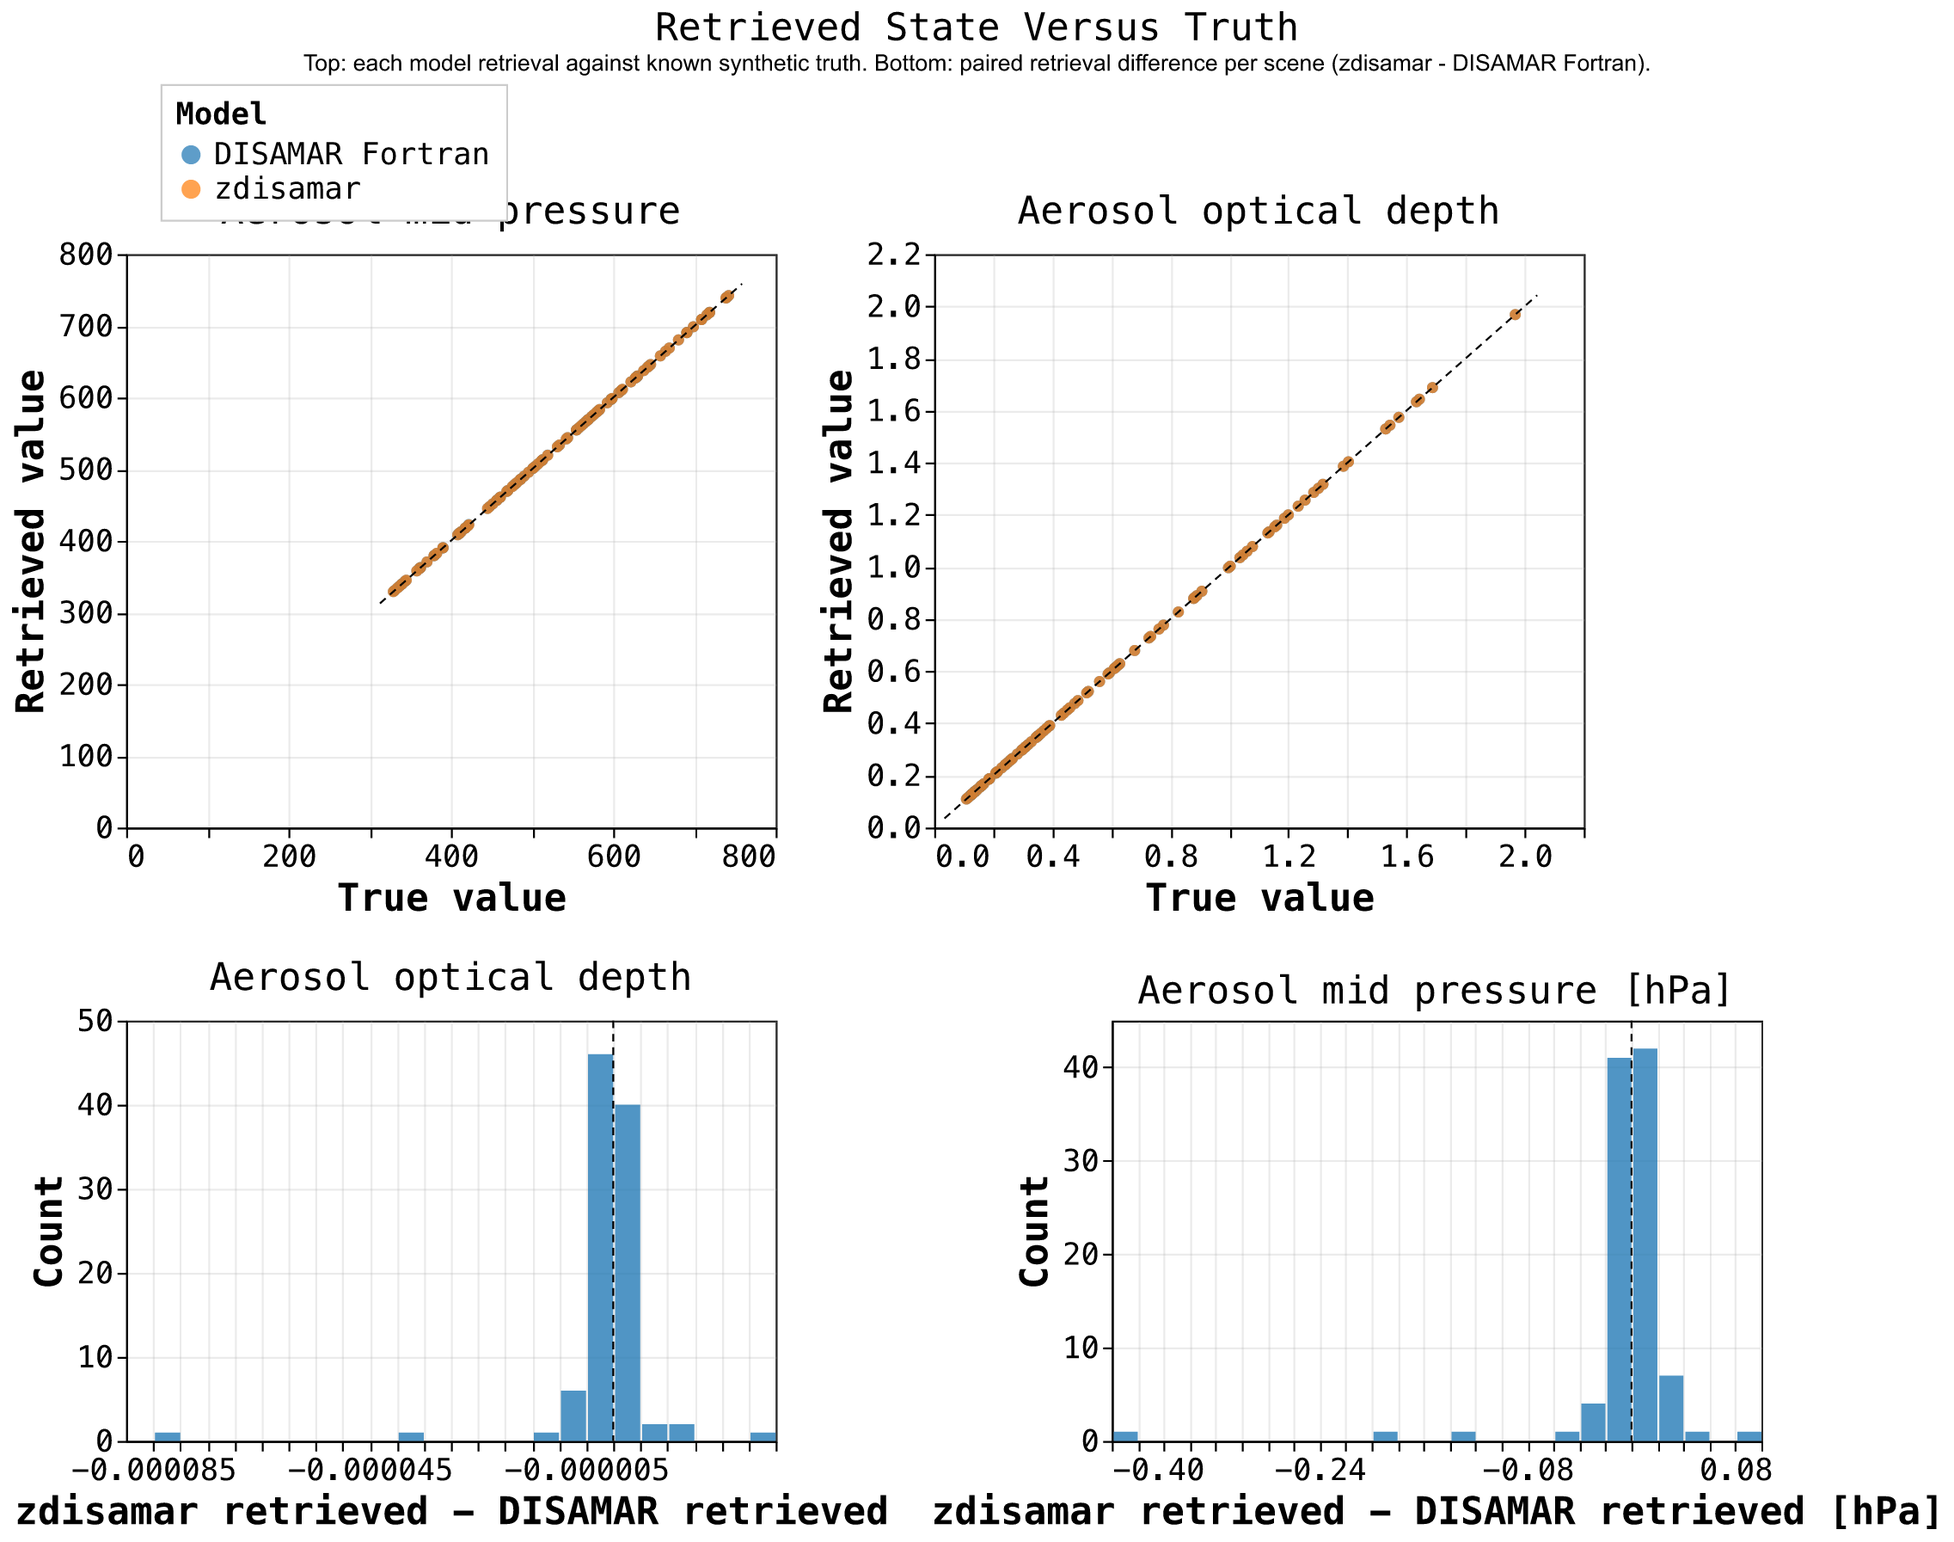
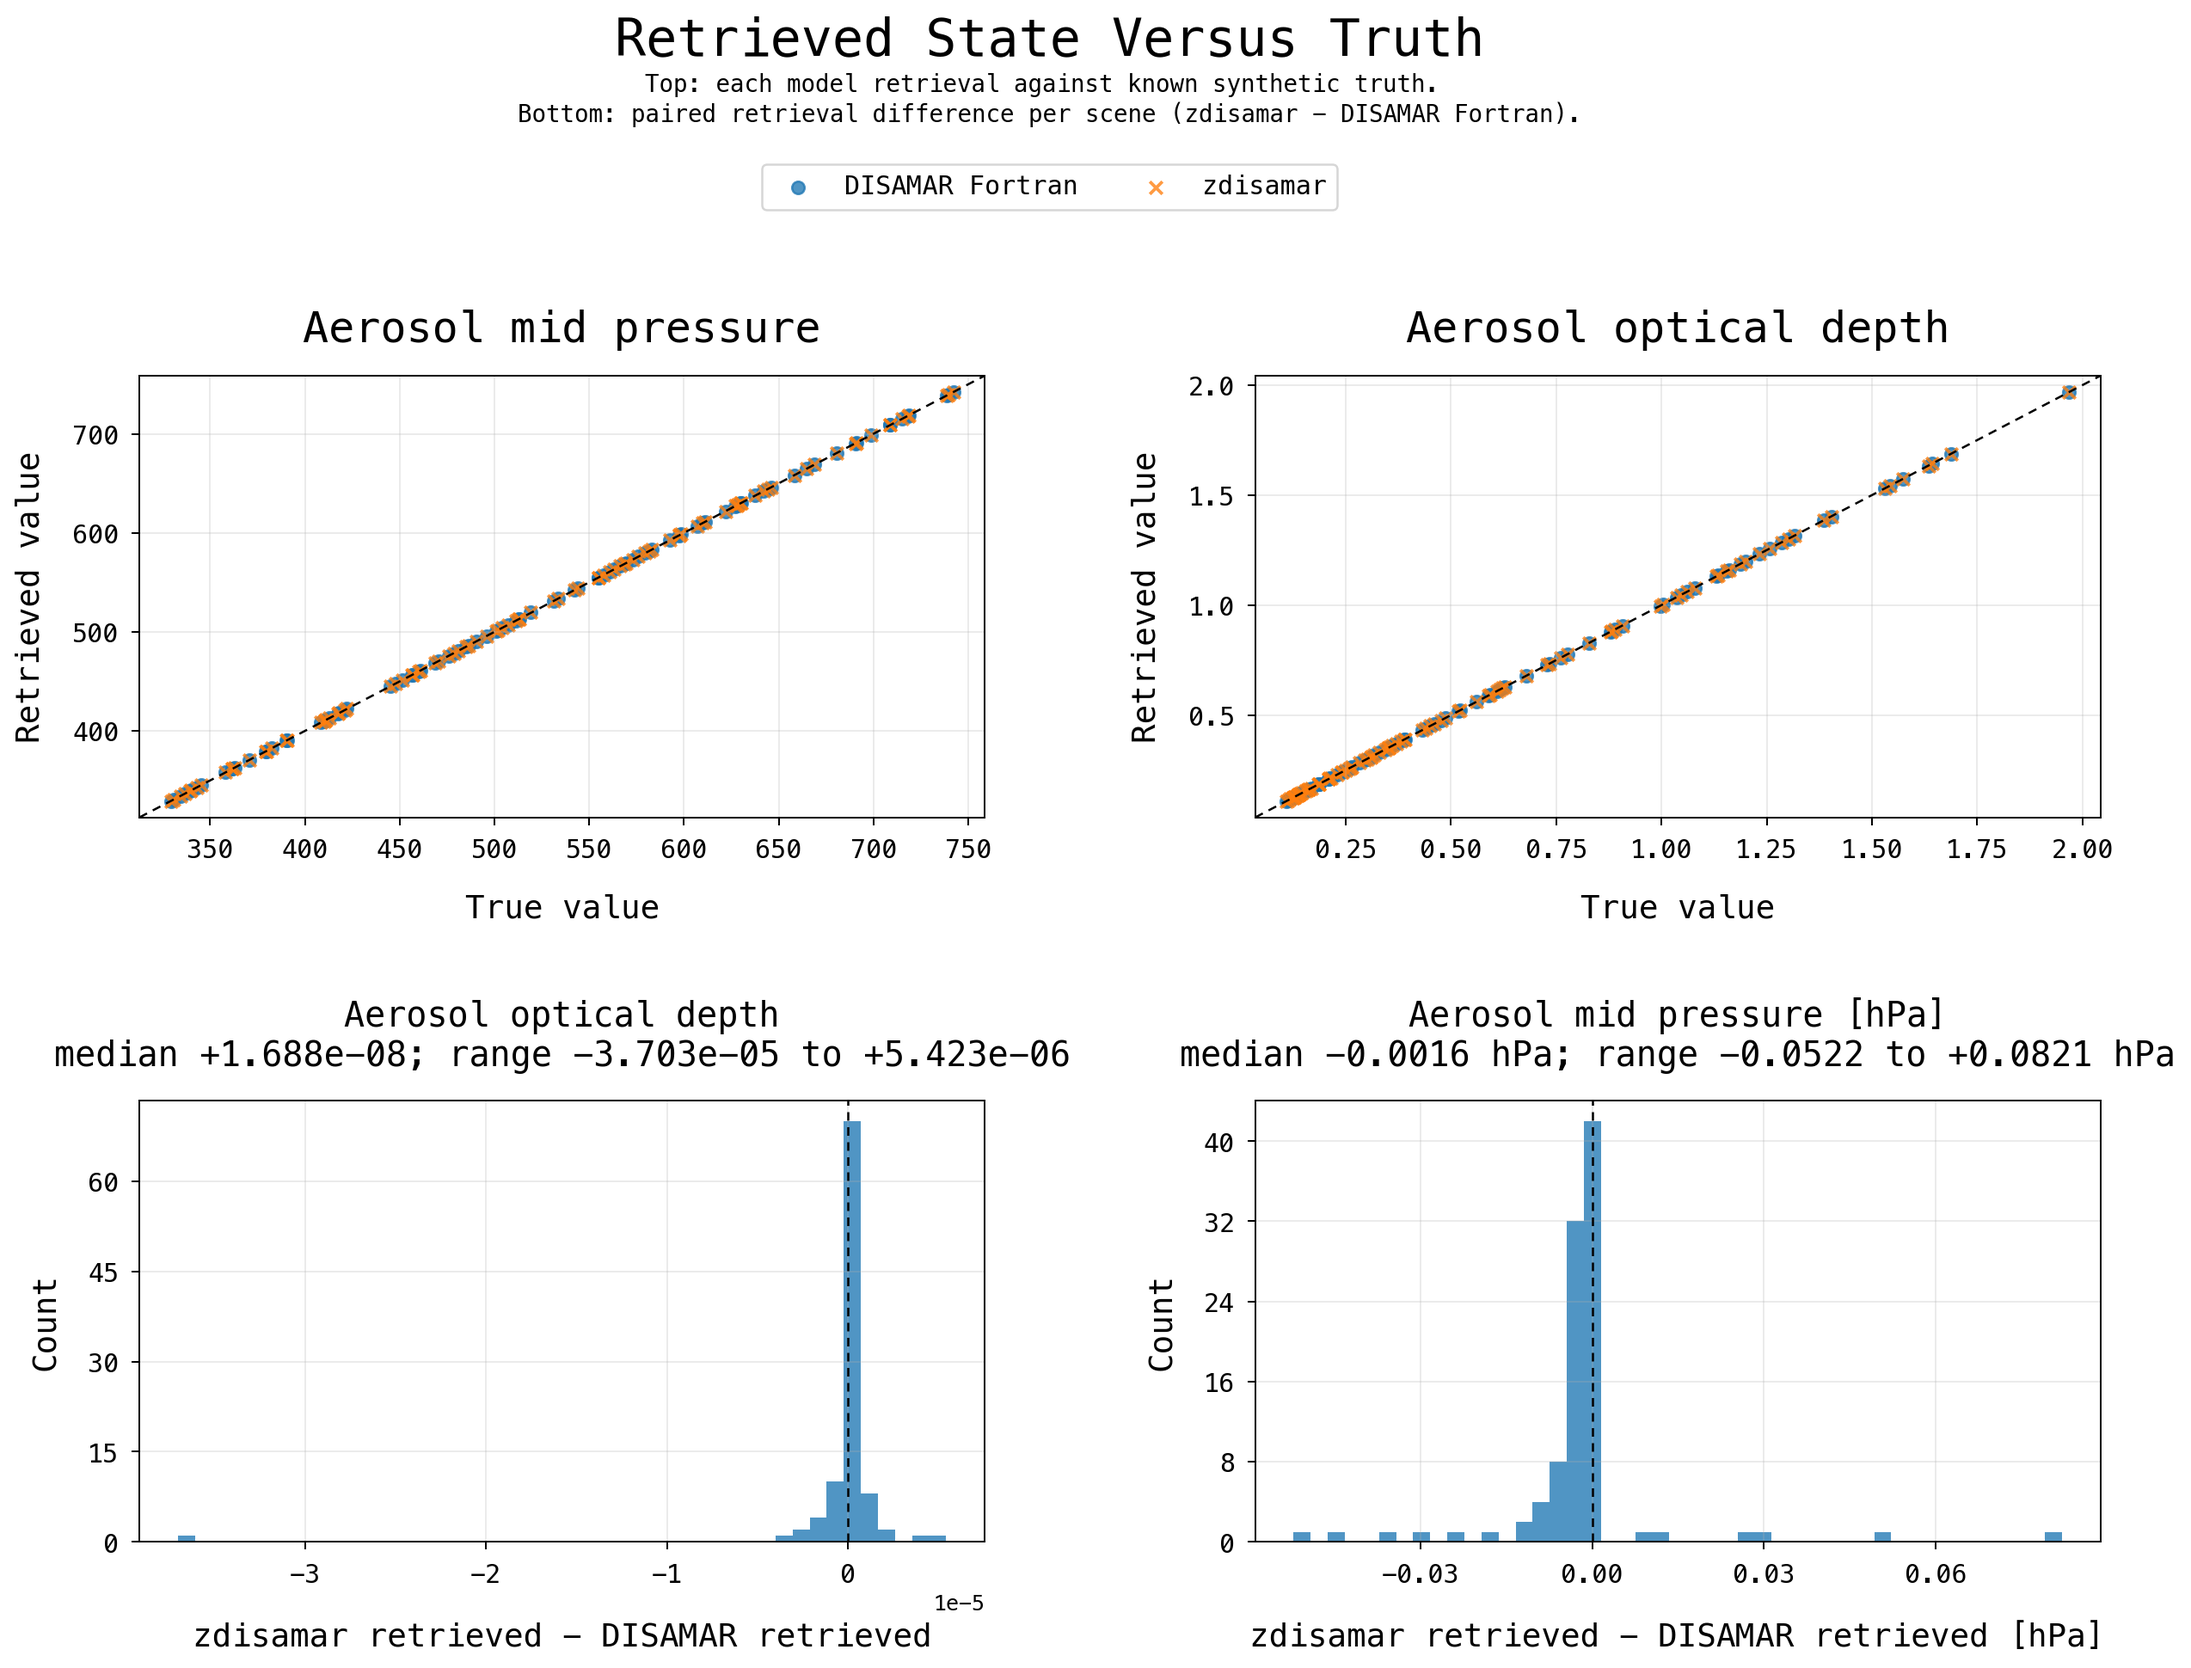
Refresh paired OE retrieval plot

diff --git a/validation/optimal_estimation/plot_paired_disamar_zdisamar.py b/validation/optimal_estimation/plot_paired_disamar_zdisamar.py
@@ -3,6 +3,7 @@
 # requires-python = ">=3.14"
 # dependencies = [
 #   "altair>=5.5",
+#   "matplotlib>=3.10",
 #   "polars>=1.35",
 #   "vl-convert-python>=1.7",
 # ]
@@ -14,7 +15,9 @@ from pathlib import Path
 from typing import Any, cast
 
 import altair as alt
+import matplotlib.pyplot as plt
 import polars as pl
+from matplotlib.ticker import MaxNLocator
 
 REPO_ROOT = Path(__file__).resolve().parents[2]
 PYTHON_ROOT = REPO_ROOT / "python"
@@ -46,6 +49,11 @@ MODEL_LABELS = {
     "zdisamar": "zdisamar",
 }
 MODEL_COLORS = [PLOT.colors["blue"], PLOT.colors["orange"]]
+MODEL_MARKERS = {
+    "DISAMAR Fortran": "o",
+    "zdisamar": "x",
+}
+MONOSPACE_FONT = "Menlo"
 
 
 def require_data() -> pl.DataFrame:
@@ -139,106 +147,209 @@ def paired_difference_rows(frame: pl.DataFrame) -> pl.DataFrame:
     return pl.concat([aod, pressure])
 
 
-def retrieved_scatter_row(frame: pl.DataFrame) -> alt.HConcatChart:
-    data = retrieved_rows(frame)
-    charts = []
-    for parameter in data["parameter"].unique().to_list():
-        subset = data.filter(pl.col("parameter") == parameter)
-        truth_min = float(cast(float, subset["truth"].min()))
-        retrieved_min = float(cast(float, subset["retrieved"].min()))
-        truth_max = float(cast(float, subset["truth"].max()))
-        retrieved_max = float(cast(float, subset["retrieved"].max()))
-        min_value = min(truth_min, retrieved_min)
-        max_value = max(truth_max, retrieved_max)
-        pad = (max_value - min_value) * 0.04
-        line_rows = pl.DataFrame([{"line_min": min_value - pad, "line_max": max_value + pad}])
-        line = (
-            alt.Chart(line_rows)
-            .mark_line(color="black", strokeDash=[4, 3], strokeWidth=1)
-            .encode(
-                x="line_min:Q",
-                x2="line_max:Q",
-                y="line_min:Q",
-                y2="line_max:Q",
-            )
-        )
-        points = (
-            alt.Chart(subset)
-            .mark_circle(size=34, opacity=0.72)
-            .encode(
-                x=alt.X("truth:Q", title="True value"),
-                y=alt.Y("retrieved:Q", title="Retrieved value"),
-                color=alt.Color(
-                    "model_label:N",
-                    title="Model",
-                    scale=alt.Scale(range=MODEL_COLORS),
-                ),
-                tooltip=[
-                    "case:Q",
-                    "model_label:N",
-                    "parameter:N",
-                    alt.Tooltip("truth:Q", format=".6g"),
-                    alt.Tooltip("retrieved:Q", format=".6g"),
-                ],
-            )
-            .properties(title=str(parameter), width=340, height=300)
-        )
-        charts.append(points + line)
-    return alt.hconcat(*charts)
+def series_stats(series: pl.Series) -> dict[str, float]:
+    if series.is_empty():
+        return {"min": math.nan, "median": math.nan, "mean": math.nan, "max": math.nan}
+    return {
+        "min": float(cast(float, series.min())),
+        "median": float(cast(float, series.median())),
+        "mean": float(cast(float, series.mean())),
+        "max": float(cast(float, series.max())),
+    }
 
 
-def paired_difference_histogram_row(frame: pl.DataFrame) -> alt.HConcatChart:
+def paired_difference_stats(frame: pl.DataFrame) -> dict[str, dict[str, float]]:
     data = paired_difference_rows(frame)
-    charts = []
-    for parameter, x_title in (
-        ("Aerosol optical depth", "zdisamar retrieved - DISAMAR retrieved"),
-        (
-            "Aerosol mid pressure [hPa]",
-            "zdisamar retrieved - DISAMAR retrieved [hPa]",
+    return {
+        "aerosol_optical_depth": series_stats(
+            data.filter(pl.col("parameter") == "Aerosol optical depth")["difference"]
         ),
-    ):
-        subset = data.filter(pl.col("parameter") == parameter)
-        zero_line = (
-            alt.Chart(pl.DataFrame([{"zero": 0.0}]))
-            .mark_rule(color="black", strokeDash=[4, 3], strokeWidth=1)
-            .encode(x="zero:Q")
+        "aerosol_mid_pressure_hpa": series_stats(
+            data.filter(pl.col("parameter") == "Aerosol mid pressure [hPa]")["difference"]
+        ),
+    }
+
+
+def signed(value: float, precision: str) -> str:
+    if math.isnan(value):
+        return "nan"
+    return f"{value:+{precision}}"
+
+
+def difference_subtitle(stats: dict[str, float], precision: str, unit: str = "") -> str:
+    suffix = f" {unit}" if unit else ""
+    return (
+        f"median {signed(stats['median'], precision)}{suffix}; "
+        f"range {signed(stats['min'], precision)} to {signed(stats['max'], precision)}{suffix}"
+    )
+
+
+def set_matplotlib_style() -> None:
+    plt.rcParams.update(
+        {
+            "font.family": "monospace",
+            "font.monospace": [
+                MONOSPACE_FONT,
+                "Monaco",
+                "Consolas",
+                "Liberation Mono",
+                "DejaVu Sans Mono",
+                "monospace",
+            ],
+            "axes.grid": True,
+            "grid.color": PLOT.colors["grid"],
+            "grid.alpha": 0.25,
+        }
+    )
+
+
+def scatter_panel(
+    ax,
+    data: pl.DataFrame,
+    *,
+    parameter: str,
+    truth_field: str,
+    retrieved_field: str,
+    title: str,
+) -> None:
+    subset = data.filter(pl.col("parameter") == parameter)
+    for model_label, color in zip(MODEL_LABELS.values(), MODEL_COLORS, strict=True):
+        model_subset = subset.filter(pl.col("model_label") == model_label)
+        ax.scatter(
+            model_subset[truth_field].to_list(),
+            model_subset[retrieved_field].to_list(),
+            s=34,
+            alpha=0.78,
+            label=model_label,
+            color=color,
+            marker=MODEL_MARKERS[model_label],
         )
-        histogram = (
-            alt.Chart(subset)
-            .mark_bar(color=PLOT.colors["blue"], opacity=0.78)
-            .encode(
-                x=alt.X("difference:Q", bin=alt.Bin(maxbins=45), title=x_title),
-                y=alt.Y("count():Q", title="Count"),
-                tooltip=[
-                    "parameter:N",
-                    alt.Tooltip("count():Q", title="count"),
-                ],
-            )
-            .properties(title=parameter, width=340, height=220)
-        )
-        charts.append(histogram + zero_line)
-    return alt.hconcat(*charts)
+    truth_min = float(cast(float, subset[truth_field].min()))
+    retrieved_min = float(cast(float, subset[retrieved_field].min()))
+    truth_max = float(cast(float, subset[truth_field].max()))
+    retrieved_max = float(cast(float, subset[retrieved_field].max()))
+    min_value = min(truth_min, retrieved_min)
+    max_value = max(truth_max, retrieved_max)
+    pad = (max_value - min_value) * 0.04
+    lower = min_value - pad
+    upper = max_value + pad
+    ax.plot(
+        [lower, upper],
+        [lower, upper],
+        color="black",
+        linestyle=(0, (4, 3)),
+        linewidth=1,
+    )
+    ax.set_xlim(lower, upper)
+    ax.set_ylim(lower, upper)
+    ax.set_title(title, fontsize=20, pad=16)
+    ax.set_xlabel("True value", fontsize=15, labelpad=14)
+    ax.set_ylabel("Retrieved value", fontsize=15, labelpad=12, fontweight="bold")
+    ax.tick_params(labelsize=12, pad=6)
+
+
+def histogram_panel(
+    ax,
+    data: pl.DataFrame,
+    *,
+    parameter: str,
+    title: str,
+    subtitle: str,
+    xlabel: str,
+    bins: int = 45,
+) -> None:
+    subset = data.filter(pl.col("parameter") == parameter)
+    ax.hist(subset["difference"].to_list(), bins=bins, color=PLOT.colors["blue"], alpha=0.78)
+    ax.axvline(0.0, color="black", linestyle=(0, (4, 3)), linewidth=1)
+    ax.set_title(f"{title}\n{subtitle}", fontsize=16, pad=16)
+    ax.set_xlabel(xlabel, fontsize=15, labelpad=16, fontweight="bold")
+    ax.set_ylabel("Count", fontsize=15, labelpad=12, fontweight="bold")
+    ax.tick_params(labelsize=12, pad=6)
+    ax.xaxis.set_major_locator(MaxNLocator(nbins=5))
+    ax.yaxis.set_major_locator(MaxNLocator(nbins=6, integer=True))
+    ax.minorticks_off()
+    ax.grid(True, which="major", axis="both", alpha=0.25)
 
 
 def save_retrieved_plot(frame: pl.DataFrame) -> None:
-    chart = (
-        alt.vconcat(
-            retrieved_scatter_row(frame),
-            paired_difference_histogram_row(frame),
-        )
-        .resolve_scale(x="independent", y="independent")
-        .properties(
-            title=alt.TitleParams(
-                text="Retrieved State Versus Truth",
-                subtitle=(
-                    "Top: each model retrieval against known synthetic truth. "
-                    "Bottom: paired retrieval difference per scene "
-                    "(zdisamar - DISAMAR Fortran)."
-                ),
-            )
-        )
+    set_matplotlib_style()
+    retrieved = retrieved_rows(frame)
+    scatter_data = retrieved.rename({"truth": "truth_value", "retrieved": "retrieved_value"})
+    differences = paired_difference_rows(frame)
+    difference_stats = paired_difference_stats(frame)
+    fig, axes = plt.subplots(2, 2, figsize=(14, 11), dpi=180)
+    fig.suptitle("Retrieved State Versus Truth", fontsize=24, y=0.982)
+    fig.text(
+        0.5,
+        0.948,
+        (
+            "Top: each model retrieval against known synthetic truth. "
+            "\nBottom: paired retrieval difference per scene "
+            "(zdisamar - DISAMAR Fortran)."
+        ),
+        ha="center",
+        va="top",
+        fontsize=11,
+        family="monospace",
     )
-    chart.save(RETRIEVED_PLOT_PATH, ppi=160)
+    scatter_panel(
+        axes[0, 0],
+        scatter_data,
+        parameter="Aerosol mid pressure",
+        truth_field="truth_value",
+        retrieved_field="retrieved_value",
+        title="Aerosol mid pressure",
+    )
+    scatter_panel(
+        axes[0, 1],
+        scatter_data,
+        parameter="Aerosol optical depth",
+        truth_field="truth_value",
+        retrieved_field="retrieved_value",
+        title="Aerosol optical depth",
+    )
+    histogram_panel(
+        axes[1, 0],
+        differences,
+        parameter="Aerosol optical depth",
+        title="Aerosol optical depth",
+        subtitle=difference_subtitle(difference_stats["aerosol_optical_depth"], ".3e"),
+        xlabel="zdisamar retrieved - DISAMAR retrieved",
+    )
+    histogram_panel(
+        axes[1, 1],
+        differences,
+        parameter="Aerosol mid pressure [hPa]",
+        title="Aerosol mid pressure [hPa]",
+        subtitle=difference_subtitle(
+            difference_stats["aerosol_mid_pressure_hpa"],
+            ".4f",
+            "hPa",
+        ),
+        xlabel="zdisamar retrieved - DISAMAR retrieved [hPa]",
+    )
+    handles, labels = axes[0, 0].get_legend_handles_labels()
+    legend = fig.legend(
+        handles,
+        labels,
+        loc="upper center",
+        bbox_to_anchor=(0.5, 0.902),
+        ncols=2,
+        frameon=True,
+        fontsize=12,
+    )
+    legend.get_frame().set_edgecolor("#cccccc")
+    legend.get_frame().set_facecolor("white")
+    fig.subplots_adjust(
+        left=0.08,
+        right=0.985,
+        top=0.77,
+        bottom=0.085,
+        hspace=0.64,
+        wspace=0.32,
+    )
+    fig.savefig(RETRIEVED_PLOT_PATH, bbox_inches="tight")
+    plt.close(fig)
 
 
 def save_error_histograms(frame: pl.DataFrame) -> None:
@@ -338,8 +449,9 @@ def manifest(frame: pl.DataFrame) -> dict[str, Any]:
                 ok_subset["aerosol_mid_pressure_abs_error_hpa"].to_list()
             ),
         }
+    differences = paired_difference_stats(frame)
     return {
-        "source_data": stable_repo_path(DATA_PATH),
+        "source_data": DATA_PATH.relative_to(REPO_ROOT).as_posix(),
         "source_rows": frame.height,
         "source_ok_rows": ok.height,
         "plots": {
@@ -347,6 +459,7 @@ def manifest(frame: pl.DataFrame) -> dict[str, Any]:
             "error_histograms": stable_repo_path(ERROR_HISTOGRAM_PATH),
             "latency": stable_repo_path(LATENCY_PLOT_PATH),
         },
+        "paired_difference": differences,
         "by_model": by_model,
     }
 

diff --git a/README.md b/README.md
@@ -95,11 +95,18 @@ come from reducing repeated setup around that calculation:
 - validation and benchmark evidence is stored under
   [`validation/outputs/`](./validation/outputs/).
 
-The benchmark cases use `nstreamsSim = 20` and `nstreamsRetr = 20`. The DISAMAR
-baseline configuration also uses `aerosolLayerHeight = 0`.
-The Fortran `aerosolLayerHeight = 1` setting activates an older shortcut option;
-the benchmark references use the normal physical inverse problem with
-`aerosolLayerHeight = 0`.
+The benchmark cases use `nstreamsSim = 20` and `nstreamsRetr = 20`. Streams are
+the angular quadrature directions used by the multiple-scattering
+radiative-transfer solver; more streams resolve the angular radiation field more
+finely, but each forward-model call costs more. The production DISAMAR O2 A
+setup usually uses 16 streams, so these retained 20-stream timings are
+deliberately slower than a production-tuned Fortran run.
+
+The DISAMAR baseline configuration also keeps `aerosolLayerHeight = 0`. We do
+not use the Fortran `aerosolLayerHeight = 1` flag to speed the comparison up,
+because that flag activates an older shortcut path. The timings below therefore
+compare `zdisamar` against the normal physical inverse problem, not against a
+shortcut-accelerated DISAMAR run.
 
 ## Benchmarks
 
@@ -139,8 +146,18 @@ synthetic spectrum, which keeps the retrieval problem aligned while measuring
 the two systems separately.
 
 ```text
-DISAMAR Fortran: 100/100 converged, median 1227.947 s, mean 1197.811 s
-zdisamar:        100/100 converged, median    3.327 s, mean    3.235 s
+DISAMAR Fortran: 100/100 converged, median 1228.826 s, mean 1189.862 s
+zdisamar:        100/100 converged, median    3.624 s, mean    3.667 s
+```
+
+![Paired optimal-estimation retrieval comparison](./validation/outputs/optimal_estimation/paired_oe_retrieved_scatter.png)
+
+The lower row shows the paired retrieved-state difference for each scene,
+computed as `zdisamar` retrieved value minus DISAMAR Fortran retrieved value:
+
+```text
+aerosol optical depth:       median +1.688e-08, mean -3.025e-07, range -3.703e-05 to +5.423e-06
+aerosol mid pressure [hPa]:  median -0.0016,    mean -0.0020,    range -0.0522 to +0.0821
 ```
 
 The tracked summary is
